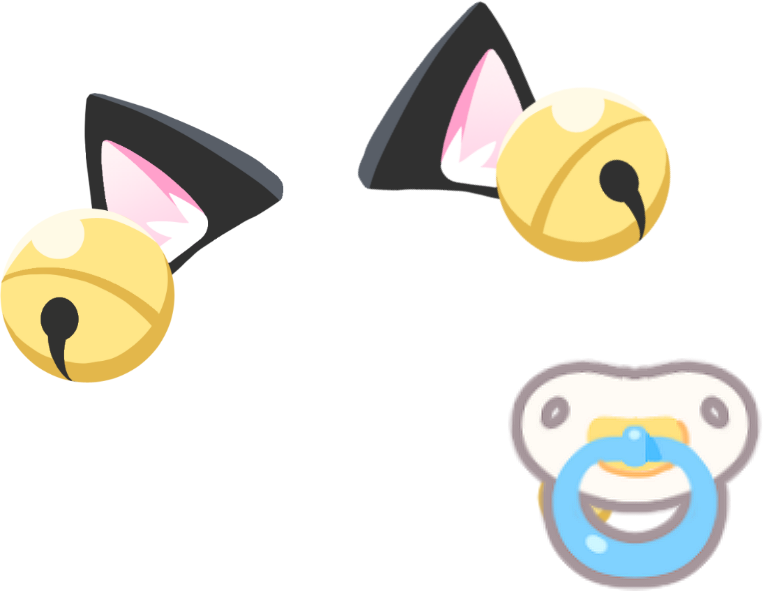
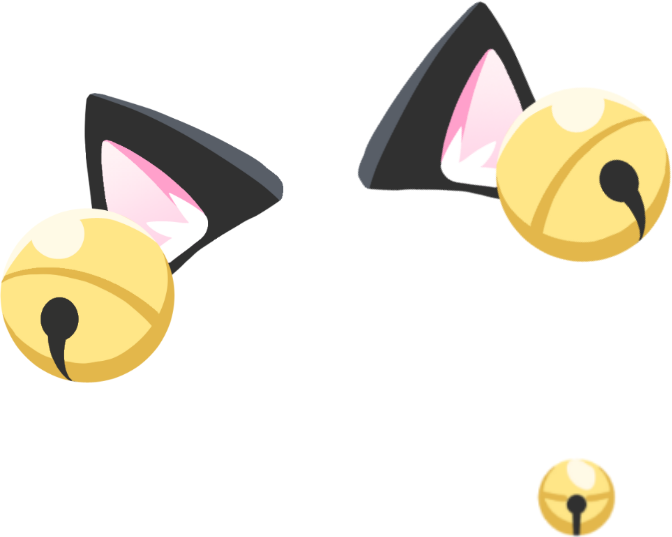
update v1787692723

Changed region(s): [[0.4688, 0.0, 1.0, 0.5065], [0.0, 0.149, 0.4375, 0.7151], [0.6562, 0.5959, 1.0, 1.0]]

diff --git a/mascot.py b/mascot.py
@@ -18234,11 +18234,11 @@ class Mascot:
             h9 = float(sz9[1]) * self.s
         except Exception:
             return
-        # **주변을 번갈아** — 왼쪽·오른쪽·위를 돌아가며, 한 번에 두세 개를
-        # 박자를 어긋내 뿅뿅 (요청: 작게 여러 개).
+        # **주변을 번갈아** — 왼쪽·오른쪽·위를 돌아가며 **한 번에 하나씩**
+        # (요청 — 여러 개를 한꺼번에 내면 겹쳐 지저분하다).
         side9 = getattr(self, "_cat_heart_side", 0)
         self._cat_heart_side = (side9 + 1) % 3
-        for j9 in range(random.randint(2, 3)):
+        for j9 in range(1):
             if side9 == 0:              # 왼쪽 곁
                 x = bx9 - w9 * random.uniform(0.05, 0.28)
                 y = by9 + yo + h9 * random.uniform(0.1, 0.7)
@@ -18248,8 +18248,6 @@ class Mascot:
             else:                       # 머리 위
                 x = bx9 + w9 * random.uniform(0.2, 0.8)
                 y = by9 + yo - h9 * random.uniform(0.0, 0.25)
-            # 자리·속도·수명을 제각각 주면 같은 박자에 태어나도 흩어져
-            # '번갈아 뿅뿅'으로 보인다.
             life = random.randint(24, 38)
             self.notes.append([x, y, random.uniform(-0.35, 0.35),
                                random.uniform(0.7, 1.15),
